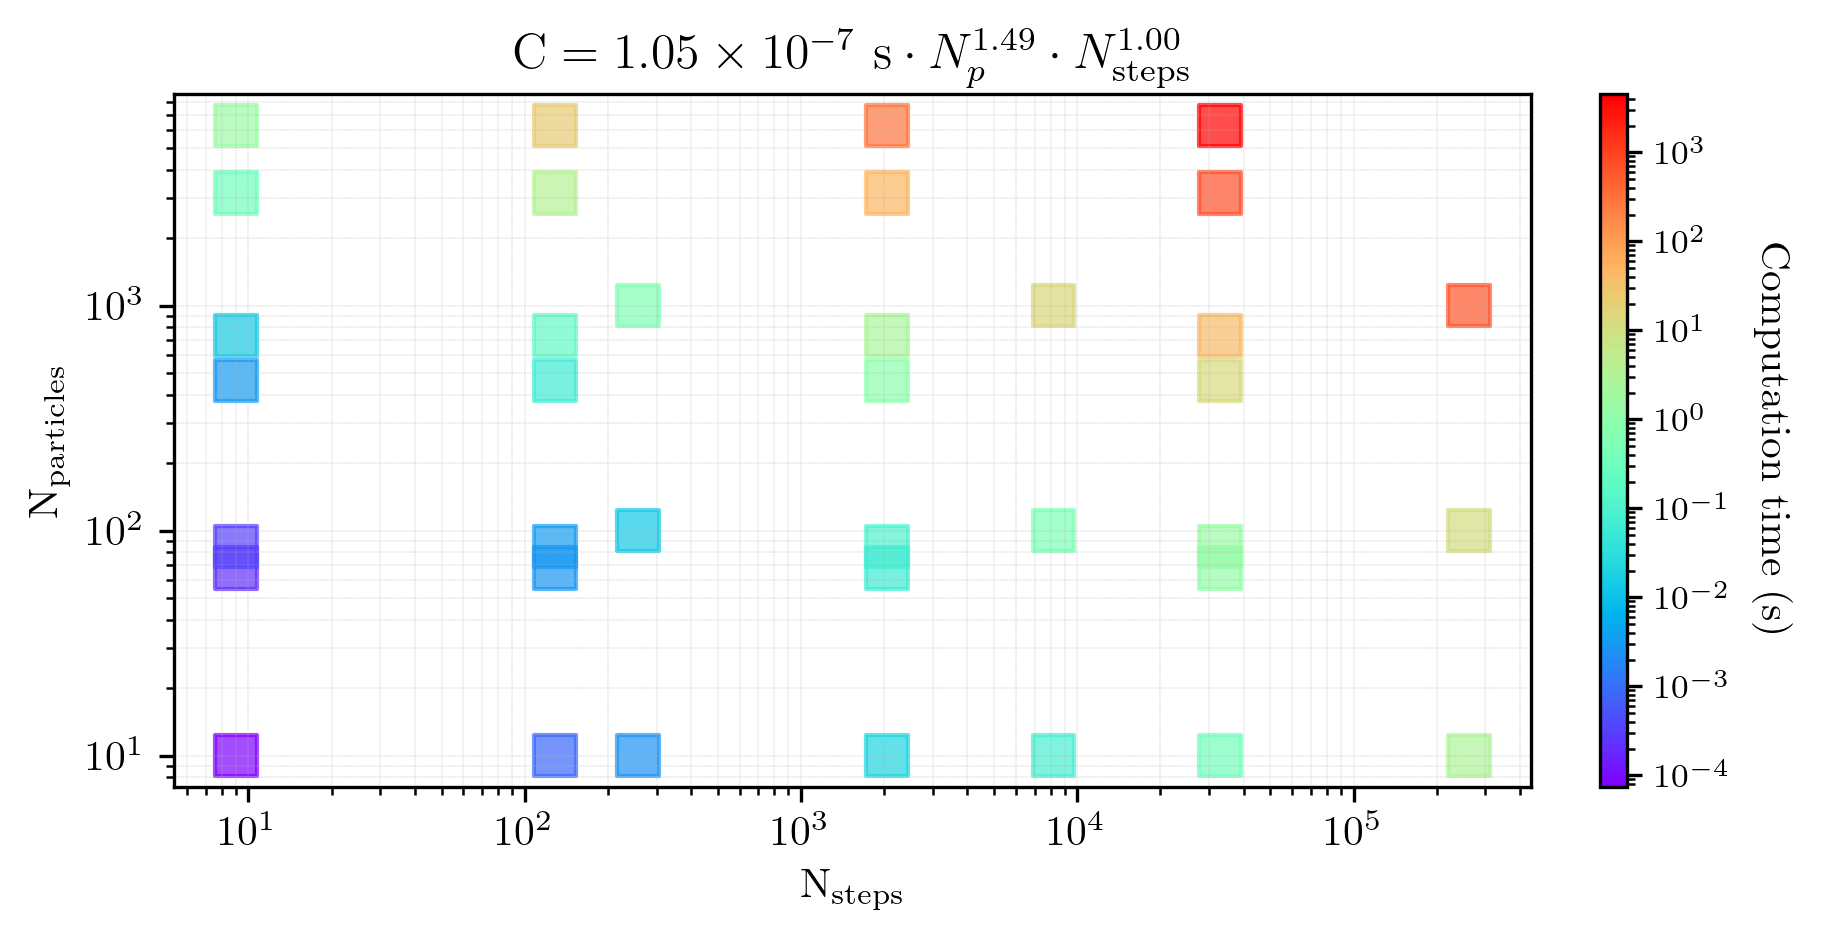
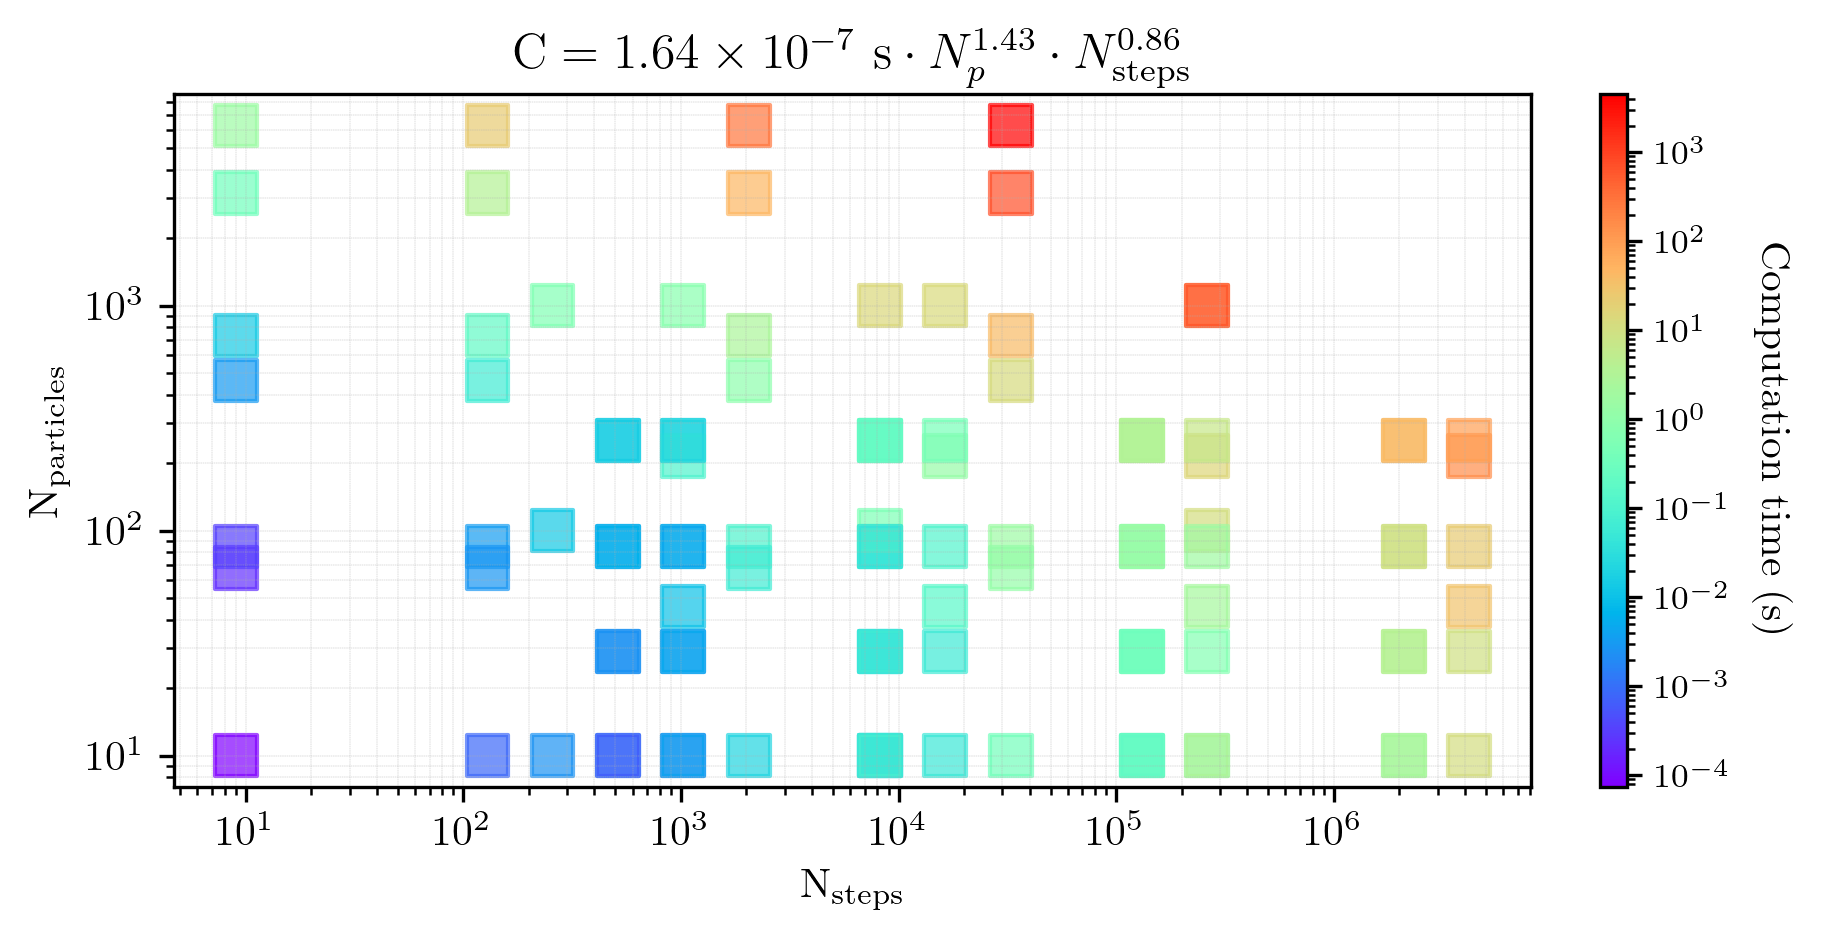
added plot for retraceability

diff --git a/docs/numerics.html b/docs/numerics.html
@@ -966,7 +966,7 @@ barring numerical error, my simulations should be reversable.</p>
 creation of a stream is shown in Fig. <a
 href="#fig:NumericalErrorStreamRetrace_Pal5_Nsteps_32768_stepsPerTau_420"
 data-reference-type="ref"
-data-reference="fig:NumericalErrorStreamRetrace_Pal5_Nsteps_32768_stepsPerTau_420">8</a>.
+data-reference="fig:NumericalErrorStreamRetrace_Pal5_Nsteps_32768_stepsPerTau_420">9</a>.
 First, we note that the energy conservation doesn’t change as a function
 of time (<strong>I checked this. Doesn’t seem to be an error, maybe just
 low particle number. I don’t think that it should be exact.</strong>).
@@ -974,6 +974,25 @@ The time step was selected based on the two criteria described in the
 previous section; i.e. that it is a divisor of the total integration
 time and is less than some desired factor of the internal dynical time:
 <span class="math inline">\(\tau = \sqrt{\frac{a^3}{GM}}\)</span>.</p>
+<p><strong>There was an error. I did good to keep checking it
+out.</strong></p>
+<figure
+id="/Users/sferrone/repos/phd-thesis-ferrone/images/NumericalErrorStreamRetrace_NGC6171_Nsteps_1048576_stepsPerTau_311">
+<img
+src="images/NumericalErrorStreamRetrace_NGC6171_Nsteps_1048576_stepsPerTau_311.png" />
+<figcaption>The center of mass of NGC6171 5 was integrated back in time
+by 1 <span
+class="math inline">\(\mathrm{s}~\frac{\mathrm{kpc}}{\mathrm{km}}\)</span>.
+A plummer sphere was sampled with 464 particles an placed about this
+position and is labeled “Initial” in the figure. This sphere was
+integrated forward to create the “Stream”. The relative error of the
+conservation of energy is distributed in the right panel. The stream was
+then integrated backward in time by 1 <span
+class="math inline">\(\mathrm{s}~\frac{\mathrm{kpc}}{\mathrm{km}}\)</span>
+and is labeled with “Retrace”. The time step was selected as a fraction
+of the internal dynamical time scale, <span
+class="math inline">\(\tau\)</span>. </figcaption>
+</figure>
 <figure
 id="fig:NumericalErrorStreamRetrace_Pal5_Nsteps_32768_stepsPerTau_420">
 <img
@@ -1000,9 +1019,11 @@ we would expect a median relative error on the order of <span
 class="math inline">\(10^{-8}\)</span>, yet in Fig. <a
 href="#fig:NumericalErrorStreamRetrace_Pal5_Nsteps_32768_stepsPerTau_420"
 data-reference-type="ref"
-data-reference="fig:NumericalErrorStreamRetrace_Pal5_Nsteps_32768_stepsPerTau_420">8</a>,
+data-reference="fig:NumericalErrorStreamRetrace_Pal5_Nsteps_32768_stepsPerTau_420">9</a>,
 we observe an error on the order of <span
-class="math inline">\(10^{-4}\)</span>.</p>
+class="math inline">\(10^{-4}\)</span>. <strong>Why is this the case? It
+makes sense to me, our equations of motion are more
+complicated</strong>.</p>
 <figure id="fig:NumericalErrorComputationTimeScalingForStreams">
 <img src="images/NumericalErrorComputationTimeScalingForStreams.png" />
 <figcaption>How the computation scale time scales with the number of

diff --git a/chapters/numerics.tex b/chapters/numerics.tex
@@ -290,6 +290,18 @@ This chapter documents how I numerically solve the equations of motion, how I va
         Secondly, given the physics of the problem discussed in section~\ref{sec:collisionalDynamics}, the dissolution of a globular cluster is not a time-reversable process. However, I am not modeling the disruption process with diffusion coefficients, nor with N-body simulations that are highly caotic. Since this is a gravity only simulation and the Eq.XXX are time-reversable, barring numerical error, my simulations should be reversable. 
 
         An example of time-reversability and energy conservation for the creation of a stream is shown in Fig.~\ref{fig:NumericalErrorStreamRetrace_Pal5_Nsteps_32768_stepsPerTau_420}. First, we note that the energy conservation doesn't change as a function of time (\textbf{I checked this. Doesn't seem to be an error, maybe just low particle number. I don't think that it should be exact.}). The time step was selected based on the two criteria described in the previous section; i.e. that it is a divisor of the total integration time and is less than some desired factor of the internal dynical time: $\tau = \sqrt{\frac{a^3}{GM}}$.  
+
+
+        \textbf{There was an error. I did good to keep checking it out.}
+
+
+        \begin{figure}
+            \centering
+            \includegraphics[width=\linewidth]{images/NumericalErrorStreamRetrace_NGC6171_Nsteps_1048576_stepsPerTau_311.png}
+            \caption{The center of mass of NGC6171~5 was integrated back in time by 1~$\mathrm{s}~\frac{\mathrm{kpc}}{\mathrm{km}}$. A plummer sphere was sampled with 464 particles an placed about this position and is labeled ``Initial'' in the figure. This sphere was integrated forward to create the ``Stream''. The relative error of the conservation of energy is distributed in the right panel. The stream was then integrated backward in time by 1~$\mathrm{s}~\frac{\mathrm{kpc}}{\mathrm{km}}$ and is labeled with ``Retrace''. The time step was selected as a fraction of the internal dynamical time scale, $\tau$. }
+            \label{/Users/sferrone/repos/phd-thesis-ferrone/images/NumericalErrorStreamRetrace_NGC6171_Nsteps_1048576_stepsPerTau_311}
+        \end{figure}
+
         \begin{figure}
             \centering
             \includegraphics[width=\linewidth]{images/NumericalErrorStreamRetrace_Pal5_Nsteps_32768_stepsPerTau_420.png}
